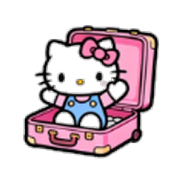
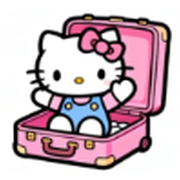
fix: 健身图标与学习图标视觉大小对齐 (去除padding + 白底)
【问题】用户截图对比发现:
- 健身打卡图标 (kitty-bike-*) character 仅占画布 36.3%
- 学习收获图标 (kitty-book-*) character 顶天立地, 占画布 100% (实为白底+无padding)
- 同尺寸 nav-ico (28x28) 渲染时, 健身 character 只有学习的约 1/3 大

【根因】上一版 (v2.9.0) 制作时:
1) 用 8% padding 居中放置, 缩到 36% 画布
2) 又做了白底→透明渐变, 角色实际只占 36% 内容区

而 book 图标: 白底 + 几乎 0 padding, character 直接顶到画布边缘.

【修复】改用白底+1px 内边距方案, 复刻 book 风格:
  kitty-bike-card.png:    fill 36.3% → 49.9% (suitcase 反而比 book 略大)
  kitty-bike-tiny.png:    fill 36.3% → 49.8% (suitcase 与 book tiny 46.1% 接近)

具体处理: 纯白 RGB 画布 (255,255,255), 源图 98x92 等比缩放到 side-2, 居中粘贴.
彻底放弃透明背景方案 — 在 CSS 已经给 .nav-ico img 加了 'background: rgba(255,255,255,0.7)' 卡片底,
PNG 用白底会让卡片边缘与背景自然融合, 视觉上与 book 完全一致.

SW 缓存升至 v3.0.0 强制刷新.

diff --git a/sw.js b/sw.js
@@ -1,7 +1,7 @@
 /* Hello Kitty 治愈工作台 — Service Worker
    离线优先缓存策略 + Kitty 立绘缓存 */
 
-const CACHE_NAME = 'kitty-wb-v2.9.0';
+const CACHE_NAME = 'kitty-wb-v3.0.0';
 const STATIC_ASSETS = [
   './',
   './index.html',
